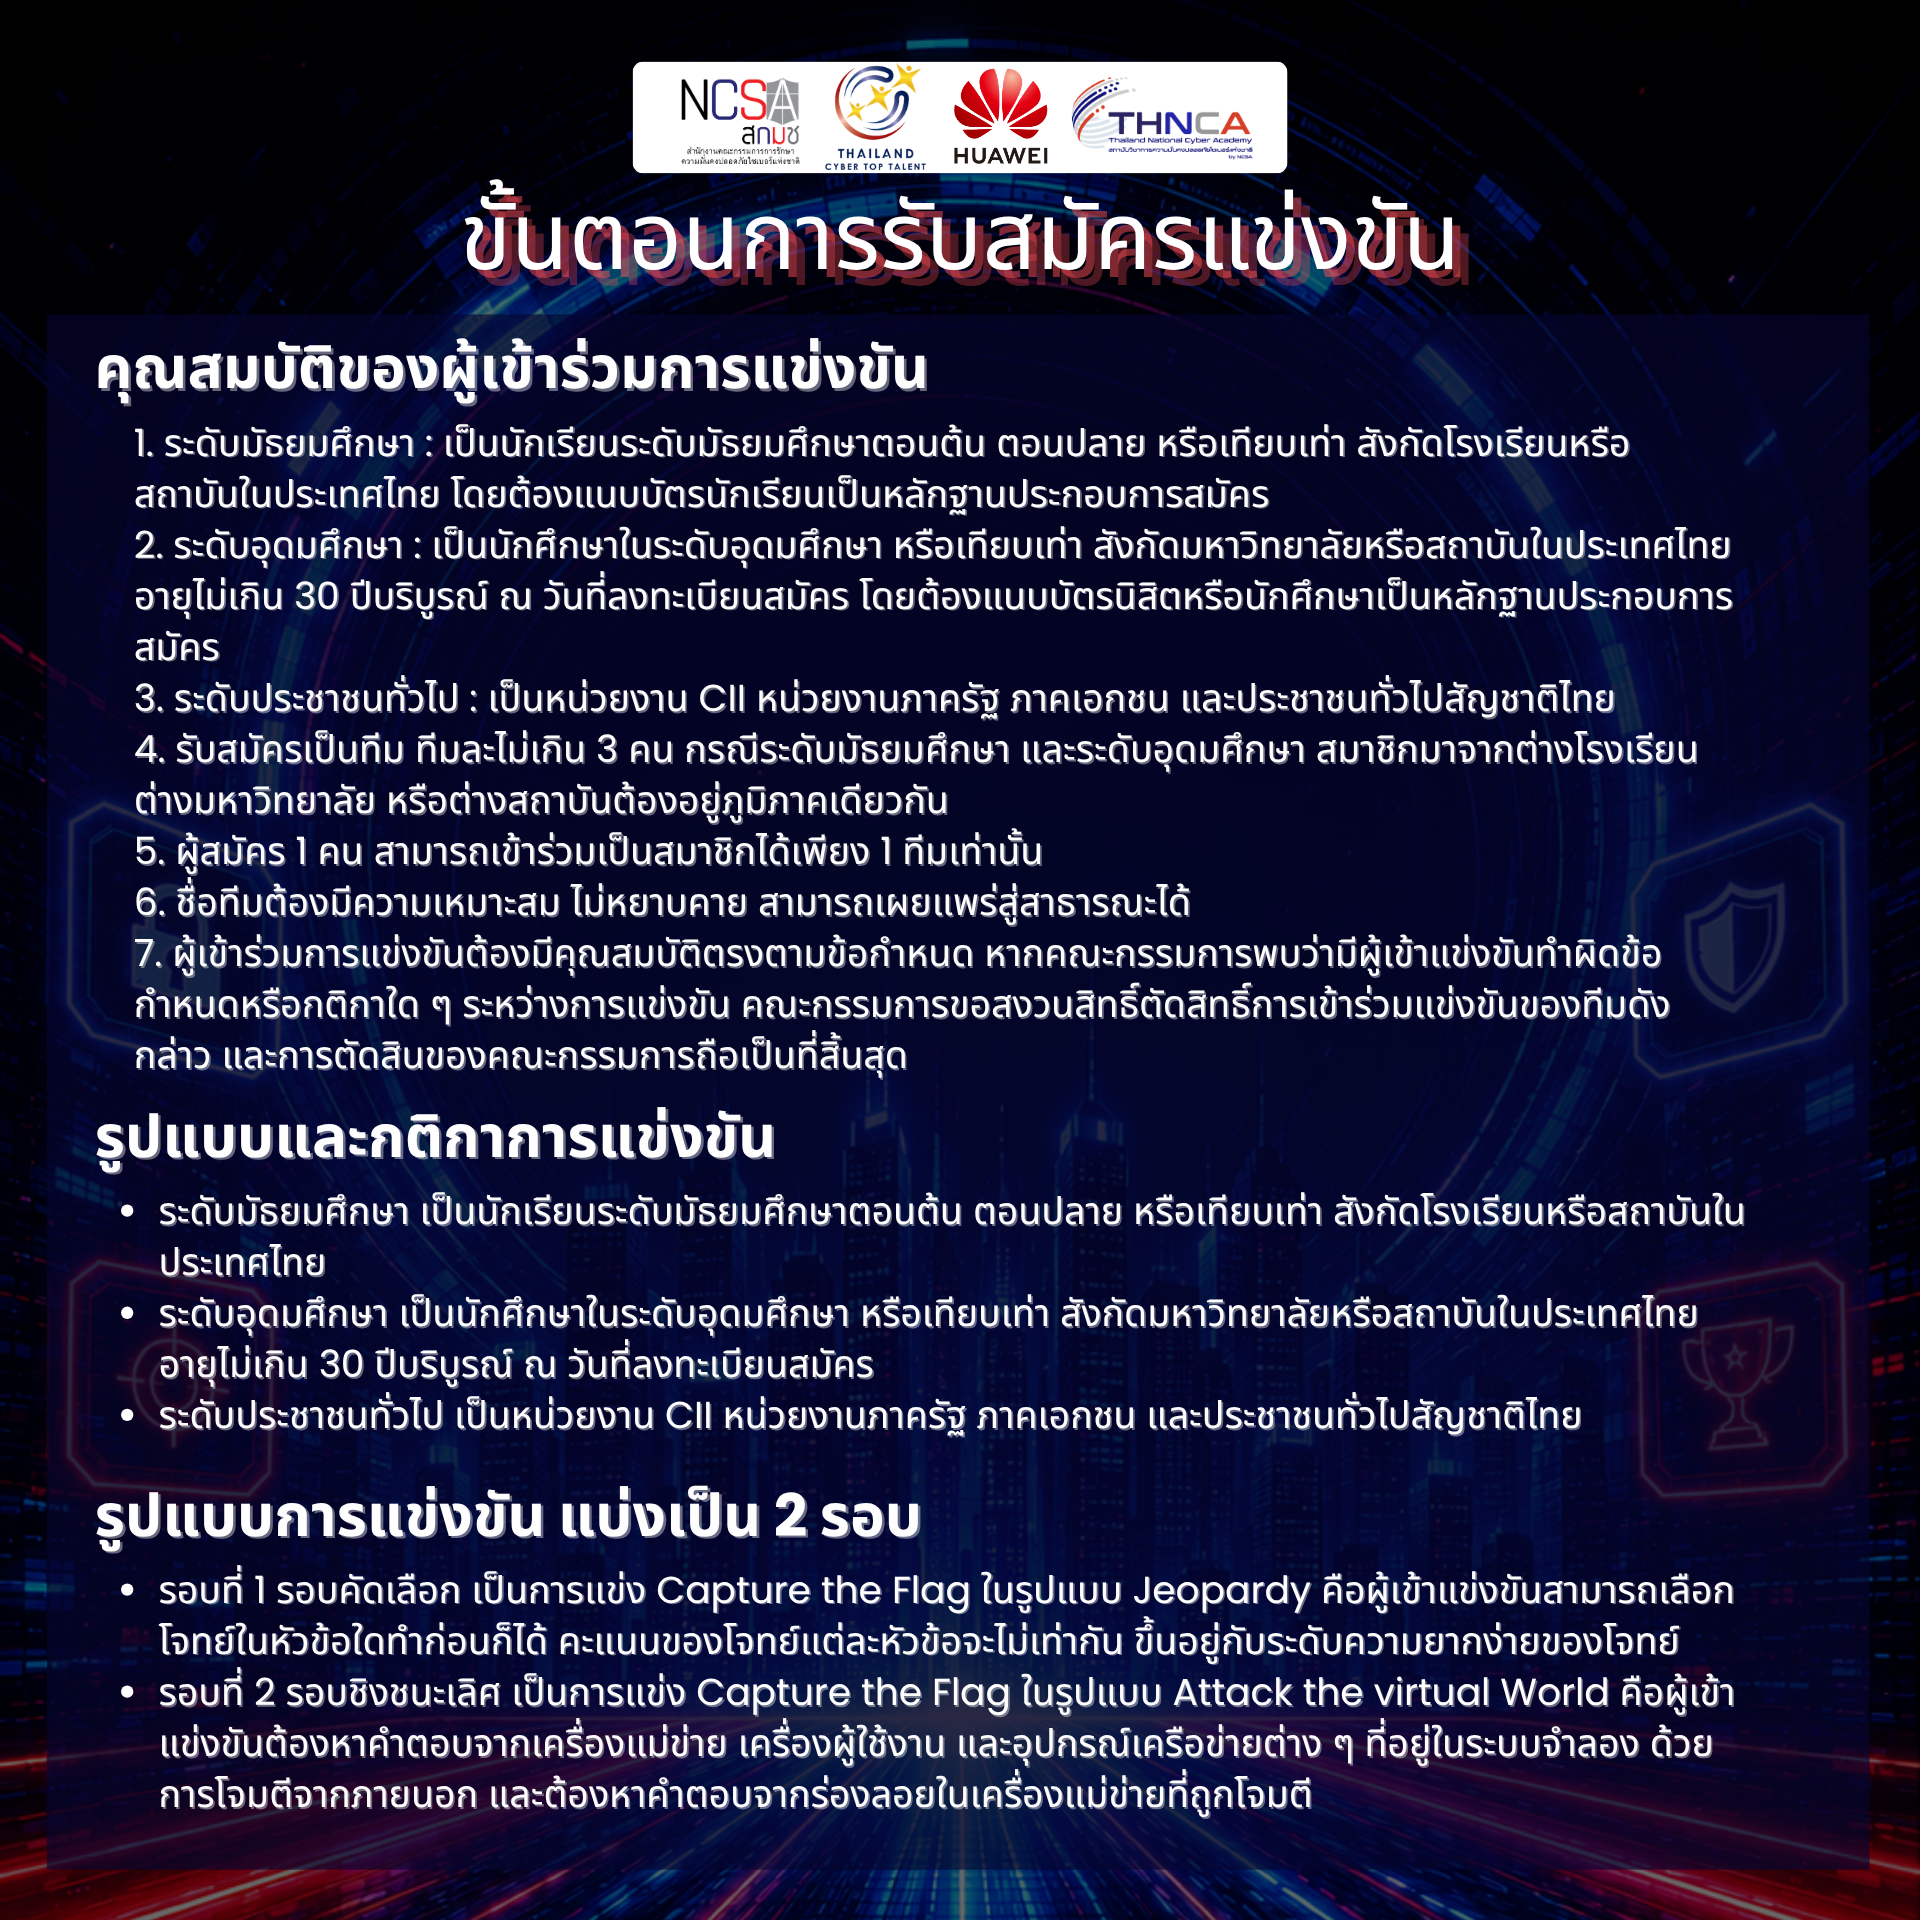
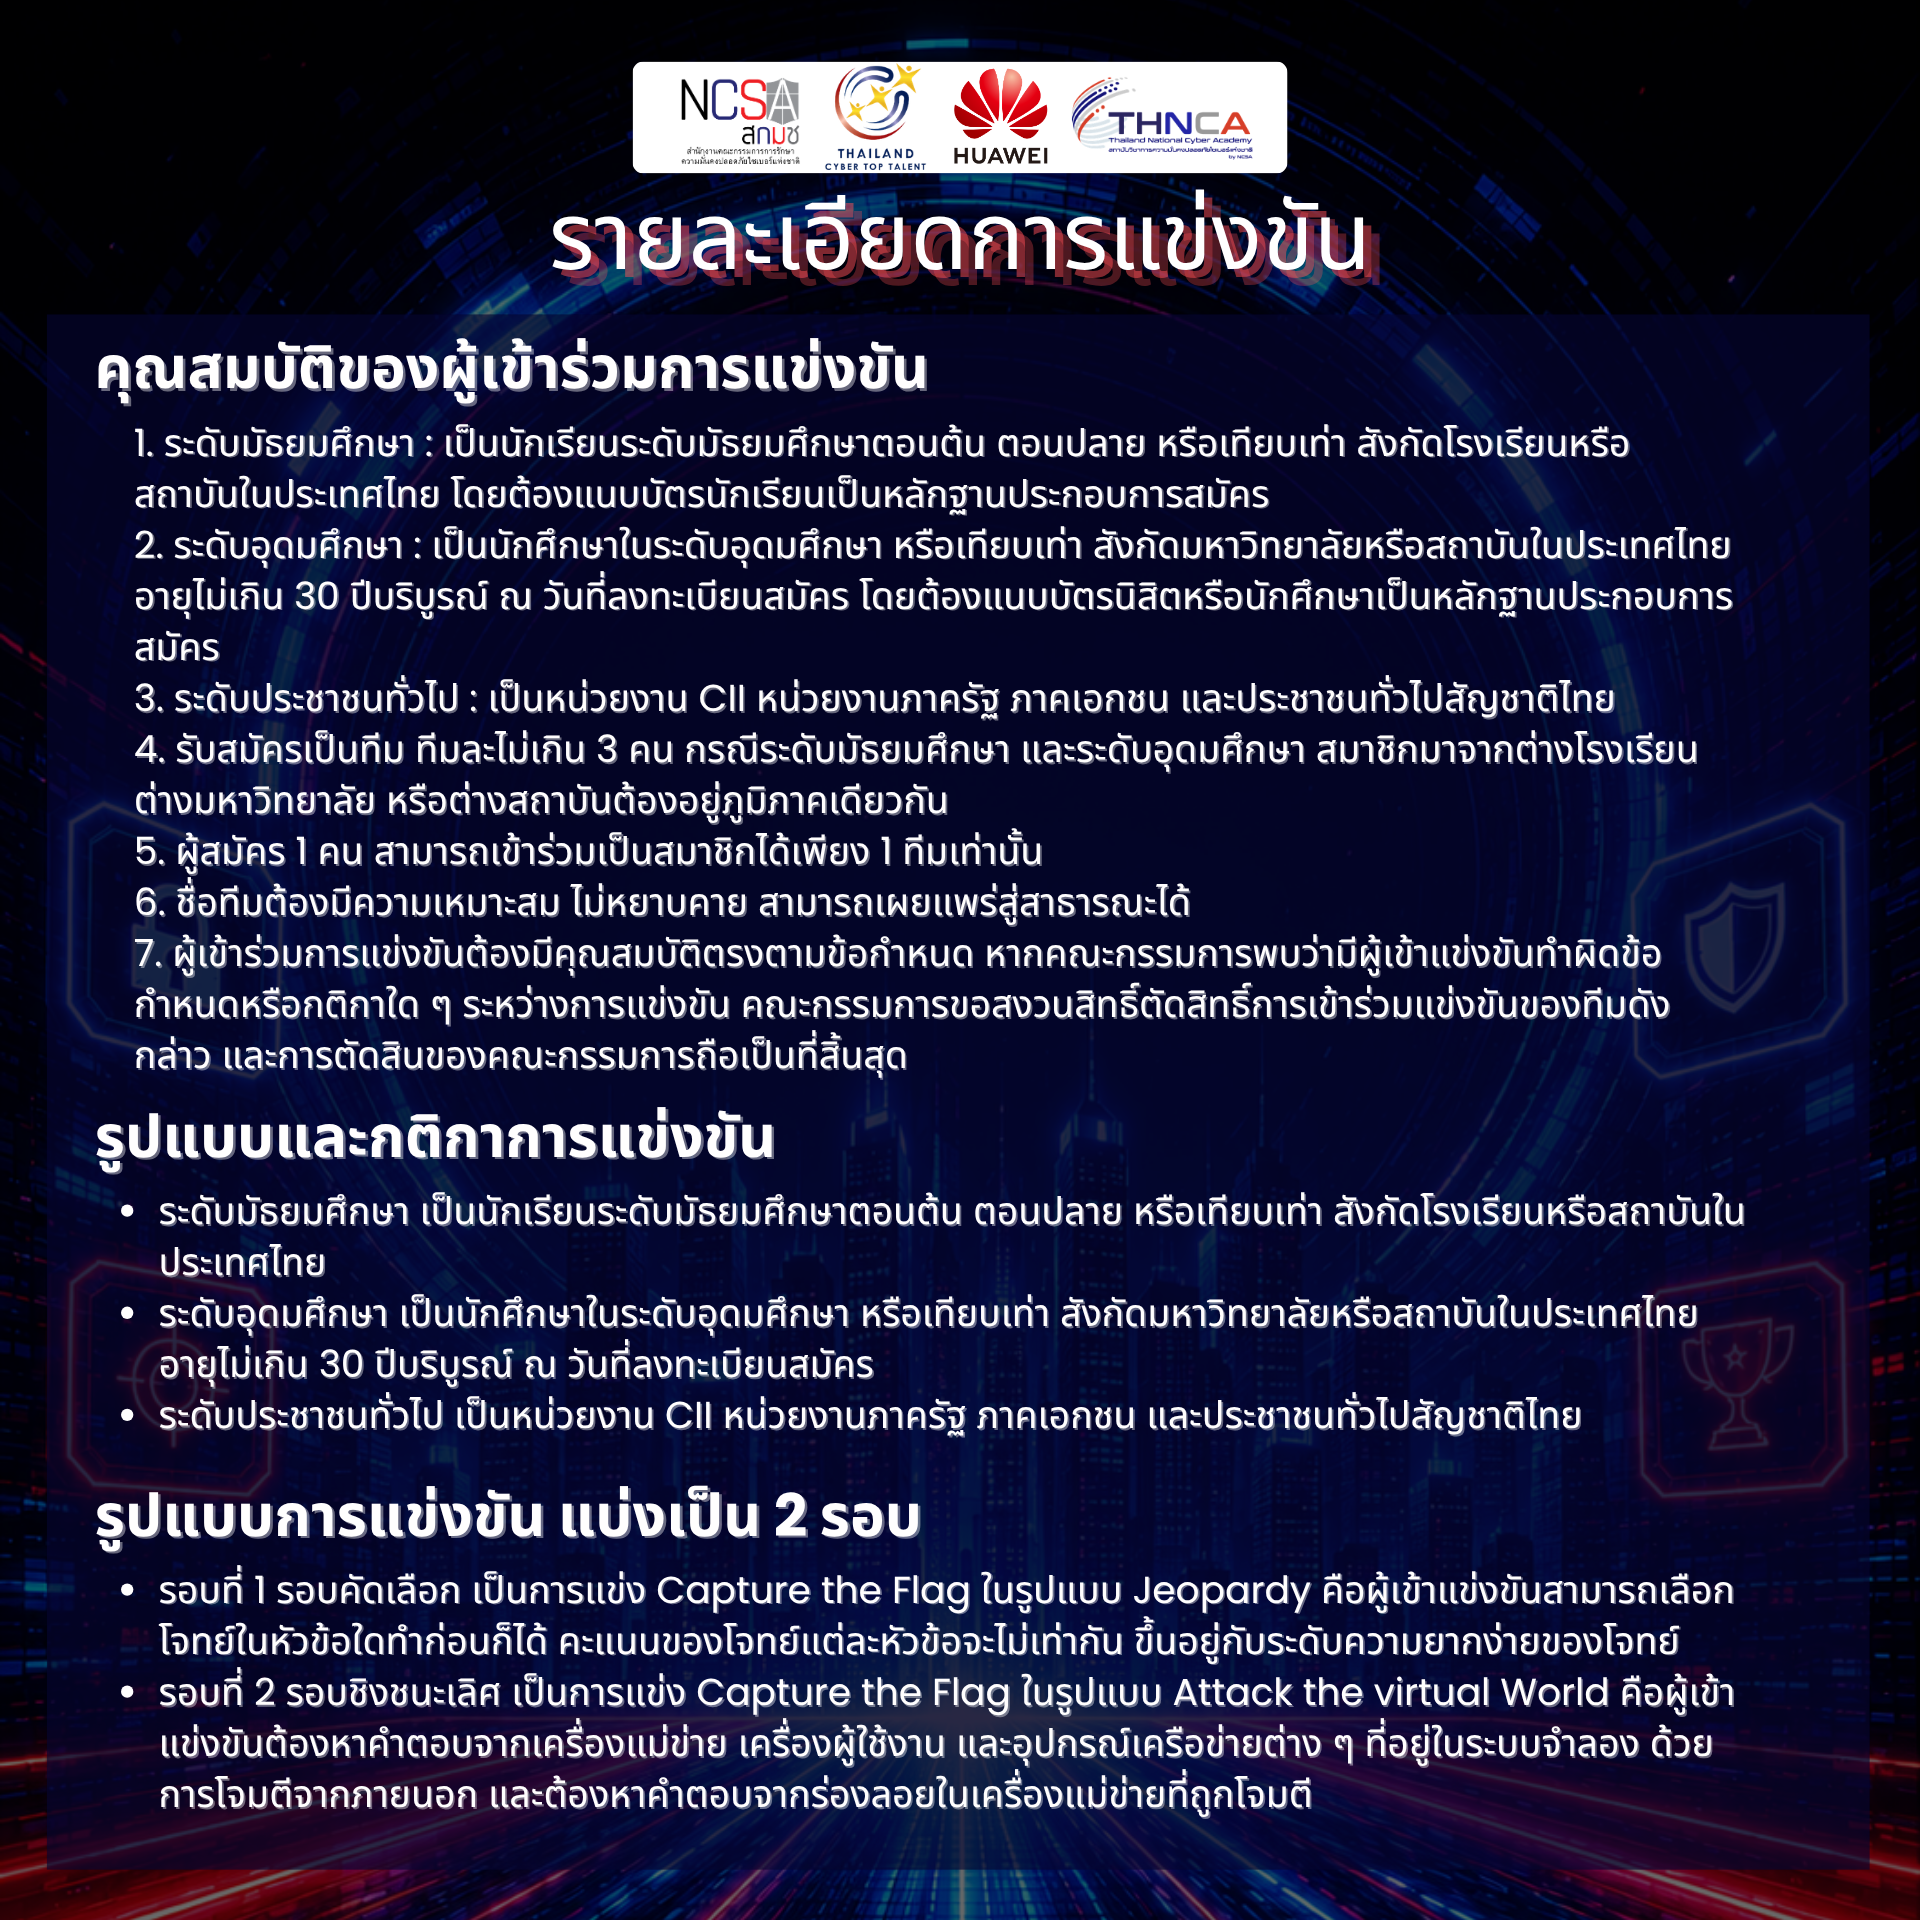
Add Register and Change Info png

Changed region(s): [[0.25, 0.0938, 0.7812, 0.1562]]

diff --git a/src/app/challenge/components/InfoCarousel.tsx b/src/app/challenge/components/InfoCarousel.tsx
@@ -3,11 +3,7 @@
 import { useState, useEffect } from "react";
 import { ChevronLeft, ChevronRight, Info } from "lucide-react";
 
-const images = [
-  "/Info 1.png",
-  "/Info 2.png",
-  "/Info 3.png"
-];
+const images = ["/Info 1.png", "/Info 2.png", "/Info 3.png"];
 
 export function InfoCarousel() {
   const [currentIndex, setCurrentIndex] = useState(0);
@@ -36,25 +32,25 @@ export function InfoCarousel() {
       <div className="flex items-center gap-4 mb-12 border-b border-blue-500/20 pb-4">
         <Info className="w-6 h-6 text-blue-500" />
         <h2 className="text-2xl font-bold uppercase tracking-widest text-[#dee3e9]">
-          Information
+          รายละเอียดการแข่งขัน
         </h2>
       </div>
 
-      <div 
+      <div
         className="relative aspect-square w-full max-w-[80vh] mx-auto overflow-hidden rounded-xl border border-[#3b494b] shadow-[0_0_30px_rgba(59,73,75,0.2)] group bg-[#0e1418]"
         onMouseEnter={() => setIsPaused(true)}
         onMouseLeave={() => setIsPaused(false)}
       >
         {/* Images */}
-        <div 
+        <div
           className="flex transition-transform duration-700 ease-in-out h-full w-full"
           style={{ transform: `translateX(-${currentIndex * 100}%)` }}
         >
           {images.map((src, idx) => (
             <div key={idx} className="min-w-full h-full relative flex-shrink-0">
-              <img 
-                src={src} 
-                alt={`Information ${idx + 1}`} 
+              <img
+                src={src}
+                alt={`Information ${idx + 1}`}
                 className="w-full h-full object-contain"
               />
             </div>
@@ -62,7 +58,7 @@ export function InfoCarousel() {
         </div>
 
         {/* Controls */}
-        <button 
+        <button
           onClick={goToPrev}
           className="absolute left-4 top-1/2 -translate-y-1/2 w-12 h-12 rounded-full bg-[#161c21]/80 backdrop-blur border border-[#3b494b] text-[#dee3e9] flex items-center justify-center opacity-0 group-hover:opacity-100 transition-opacity hover:bg-blue-500 hover:text-white hover:border-blue-500 z-10"
           aria-label="Previous image"
@@ -70,7 +66,7 @@ export function InfoCarousel() {
           <ChevronLeft className="w-6 h-6" />
         </button>
 
-        <button 
+        <button
           onClick={goToNext}
           className="absolute right-4 top-1/2 -translate-y-1/2 w-12 h-12 rounded-full bg-[#161c21]/80 backdrop-blur border border-[#3b494b] text-[#dee3e9] flex items-center justify-center opacity-0 group-hover:opacity-100 transition-opacity hover:bg-blue-500 hover:text-white hover:border-blue-500 z-10"
           aria-label="Next image"
@@ -85,7 +81,9 @@ export function InfoCarousel() {
               key={idx}
               onClick={() => setCurrentIndex(idx)}
               className={`w-3 h-3 rounded-full transition-all duration-300 ${
-                idx === currentIndex ? "bg-blue-500 scale-125 shadow-[0_0_10px_rgba(59,130,246,0.8)]" : "bg-[#849495]/50 hover:bg-[#849495]"
+                idx === currentIndex
+                  ? "bg-blue-500 scale-125 shadow-[0_0_10px_rgba(59,130,246,0.8)]"
+                  : "bg-[#849495]/50 hover:bg-[#849495]"
               }`}
               aria-label={`Go to slide ${idx + 1}`}
             />

diff --git a/src/app/challenge/components/StepCarousel.tsx b/src/app/challenge/components/StepCarousel.tsx
@@ -1,0 +1,33 @@
+"use client";
+
+import { ClipboardList } from "lucide-react";
+
+const images = ["/Step 1.png", "/Step 2.png"];
+
+export function StepGrid() {
+  return (
+    <section className="relative z-10 pb-24 px-4 sm:px-6 lg:px-8 max-w-7xl mx-auto">
+      <div className="flex items-center gap-4 mb-12 border-b border-green-500/20 pb-4">
+        <ClipboardList className="w-6 h-6 text-green-500" />
+        <h2 className="text-2xl font-bold uppercase tracking-widest text-[#dee3e9]">
+          ขั้นตอนการสมัครการแข่งขัน
+        </h2>
+      </div>
+
+      <div className="grid grid-cols-1 md:grid-cols-2 gap-8 w-full">
+        {images.map((src, idx) => (
+          <div 
+            key={idx}
+            className="relative w-full aspect-square overflow-hidden rounded-xl border border-[#3b494b] shadow-[0_0_30px_rgba(59,73,75,0.2)] bg-[#0e1418] hover:border-green-500/50 transition-colors duration-300"
+          >
+            <img
+              src={src}
+              alt={`Step ${idx + 1}`}
+              className="w-full h-full object-contain p-4"
+            />
+          </div>
+        ))}
+      </div>
+    </section>
+  );
+}

diff --git a/src/app/challenge/page.tsx b/src/app/challenge/page.tsx
@@ -3,6 +3,7 @@ import Link from "next/link";
 import { Shield, Users, Terminal, ChevronRight } from "lucide-react";
 import { ViewTeamsDialog } from "./components/ViewTeamsDialog";
 import { InfoCarousel } from "./components/InfoCarousel";
+import { StepGrid } from "./components/StepCarousel";
 export const revalidate = 30; // แคชหน้าเว็บและดึงข้อมูลใหม่ทุกๆ 30 วินาที เพื่อประหยัด Database Connection
 export default async function ChallengeLandingPage() {
   // Fetch active challenges from database
@@ -185,6 +186,9 @@ export default async function ChallengeLandingPage() {
           )}
         </div>
       </section>
+
+      {/* Step Grid Section */}
+      <StepGrid />
 
       {/* Info Carousel Section */}
       <InfoCarousel />
